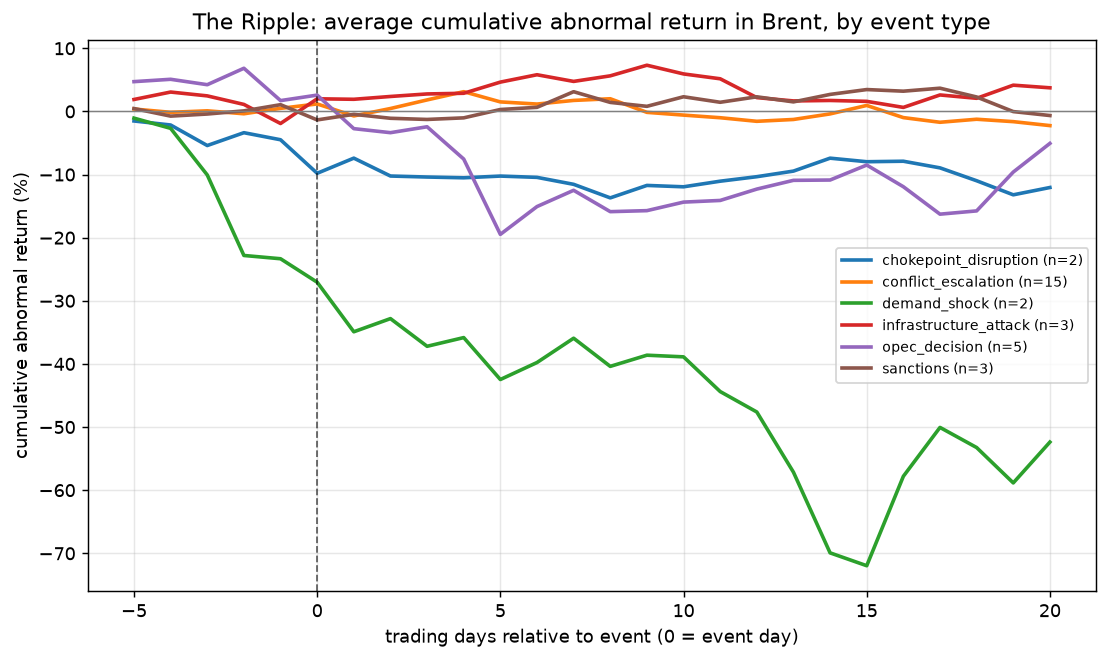
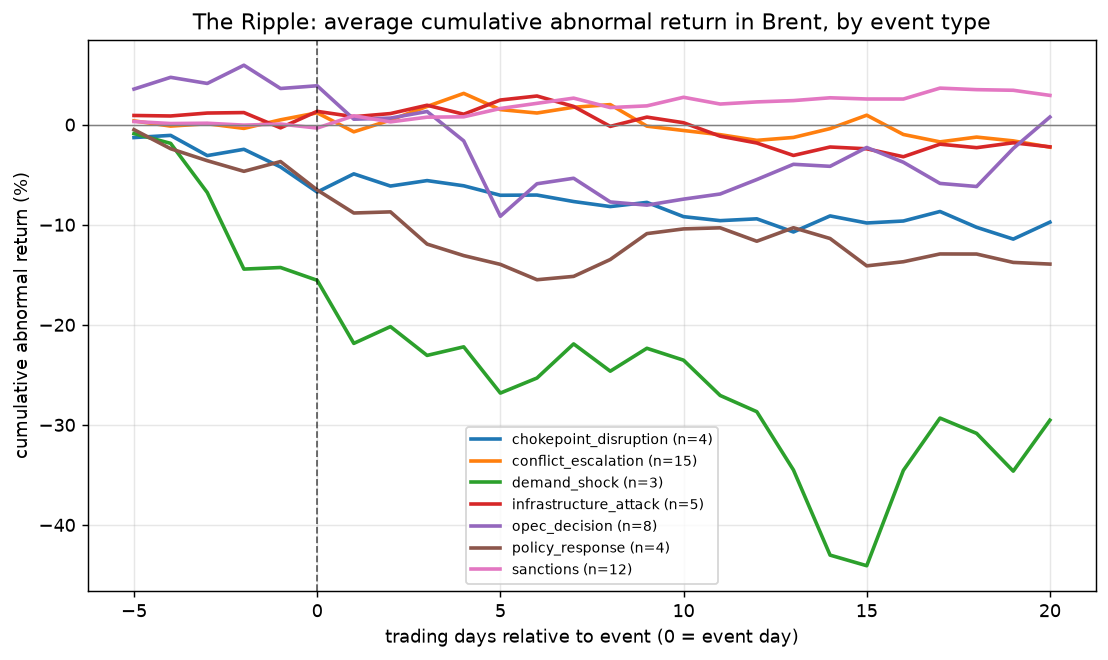
Part 1: policy_response 7th event type + load batch-3 corpus (n=52)
Codebook amendment (approved by Joe with batch 3): policy_response is now the 7th
registered event type -- deliberate government/agency market interventions
(coordinated SPR/IEA strategic-reserve releases); severity = scale of the
intervention. Added to VALID_TYPES in load_events.py (with the dated comment) and
review_candidates.py; a dated addendum line was added to EVENTS_CODEBOOK.md (in
the parent docs folder, left untracked per that folder's convention).

That amendment unblocked the 4 approved policy_response events (iea_release_
katrina_2005, iea_release_libya_2011, spr_release_2021, spr_release_2022): they
were already in events.csv but load_events had been rejecting them for the
unknown type. load_events now loads the full batch-3 corpus (n=52, policy_response
= 4). Verified they flow through the pipeline like any other type: event study
(policy_response n=4, CAR+20 -13.9%, t=-2.77 -- SPR/IEA releases push oil down),
scenario card (n=3 clustered, anecdote-flagged), and 23 cross-asset edges.

Regenerated cross_asset_results.txt and quiet_comparison.txt at n=52; refresh
10/10 OK. Forbidden analysis modules untouched.

diff --git a/src/review_candidates.py b/src/review_candidates.py
@@ -33,7 +33,8 @@ EDITABLE = ["event_date", "date_precision", "type", "title", "description",
             "severity", "surprise", "confidence", "source_url", "entities"]
 
 VALID_TYPES = {"chokepoint_disruption", "opec_decision", "sanctions",
-               "conflict_escalation", "infrastructure_attack", "demand_shock"}
+               "conflict_escalation", "infrastructure_attack", "demand_shock",
+               "policy_response"}   # amendment 2026-07-23 (batch 3); see load_events.py
 
 
 def load(path, fields=None):

diff --git a/src/load_events.py b/src/load_events.py
@@ -28,6 +28,9 @@ VALID_TYPES = {
     "conflict_escalation",
     "infrastructure_attack",
     "demand_shock",
+    # Amendment 2026-07-23, approved by Joe with batch 3: deliberate government/
+    # agency market interventions (SPR/IEA releases). Severity = scale of intervention.
+    "policy_response",
 }
 VALID_PRECISION = {"day", "week", "month"}
 VALID_CONFIDENCE = {"high", "medium", "low"}
